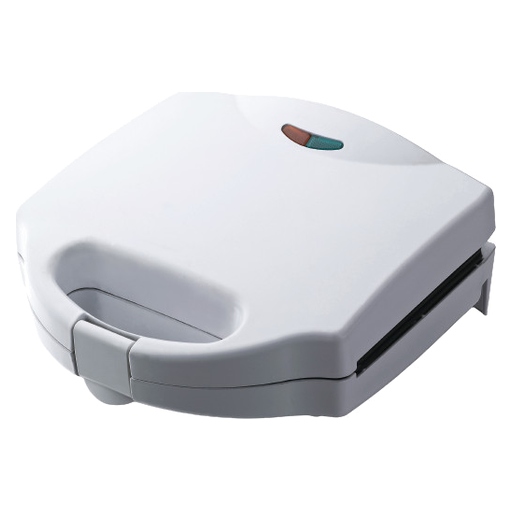
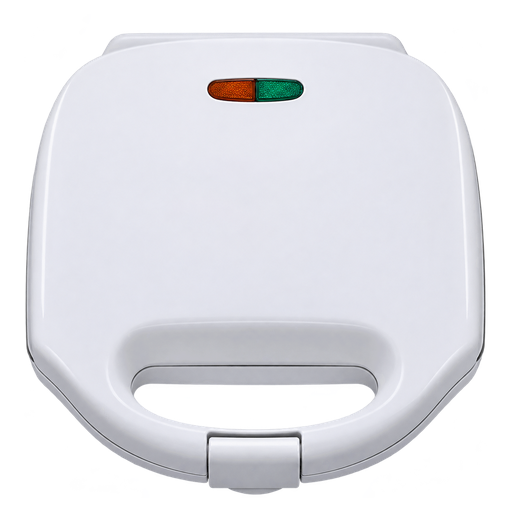
Correct custom sandwich maker image to front-facing white product

diff --git a/index.html b/index.html
@@ -711,7 +711,7 @@ const CUSTOMN={"custom_washing_machine":"מכונת כביסה","custom_refriger
 const CUSTOM_PICKER_IDS=["custom_washing_machine","custom_refrigerator","custom_air_conditioner","custom_water_heater","custom_general_ge2411fix_dishwasher","custom_electra_el896_dryer","custom_xiaomi_be6500_pro_router","custom_mova_e30_ultra_robot_vacuum","custom_magcubic_hy350_gtv_projector","custom_afikim_noam2_water_dispenser","custom_smart_curtains","custom_electric_roller_shutter","custom_wall_socket","custom_israeli_smart_plug_adapter","custom_light_switch","custom_smart_bulb","custom_table_lamp","custom_ninja_a330_grill_airfryer","custom_oralb_io2_toothbrush","custom_boss_shabbat_hotplate","custom_pop_up_toaster","custom_user_white_sandwich_press","custom_white_stand_mixer","custom_white_blender"];
 const customPicker=cur=>'<details class="custom-picker"><summary><span>מותאם אישית</span><span class="custom-picker-count">'+CUSTOM_PICKER_IDS.length+' תמונות ▾</span></summary><div class="icgrid" role="group" aria-label="מותאם אישית">'+CUSTOM_PICKER_IDS.map(k=>'<button data-ic2="'+k+'" aria-pressed="'+(k===cur)+'">'+artFor(k,STYLE())+'<span>'+esc(CUSTOMN[k])+'</span></button>').join('')+'</div></details>';
 const REAL=new Set(Object.keys(REALN));
-const realImg=k=>`<img class="real" src="${CUSTOMN[k]?'real/custom/'+k.slice(7)+'.png?v=2':'real/'+(REAL.has(k)?k:'plug')+(k==='hotplate'?'.webp':'.png')+(k==='toaster'?'?v=3':'?v=2')}" alt="" decoding="sync">`;
+const realImg=k=>`<img class="real" src="${CUSTOMN[k]?'real/custom/'+k.slice(7)+'.png?v='+(k==='custom_user_white_sandwich_press'?'3':'2'):'real/'+(REAL.has(k)?k:'plug')+(k==='hotplate'?'.webp':'.png')+(k==='toaster'?'?v=3':'?v=2')}" alt="" decoding="sync">`;
 const artFor=(k,st)=>realImg(k);
 const photoOf=d=>STYLE()==='photo'&&(!META.icons||META.icons[d.id]==null||META.icons[d.id]==='photo')&&META.img[d.id]?META.img[d.id]:'';
 const drawn=d=>artFor(iconOf(d),STYLE());
